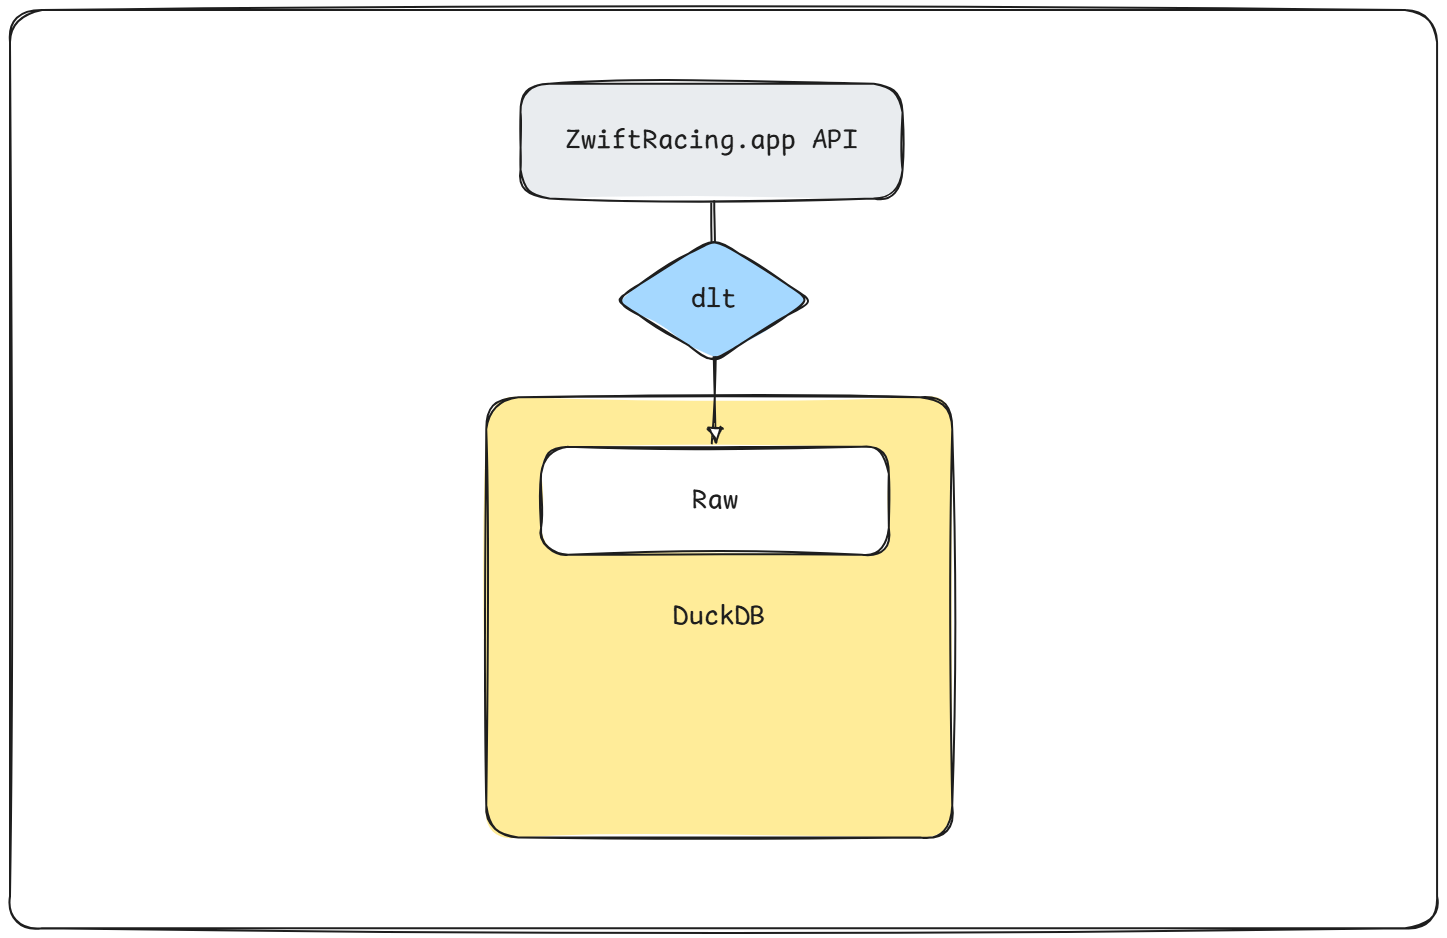
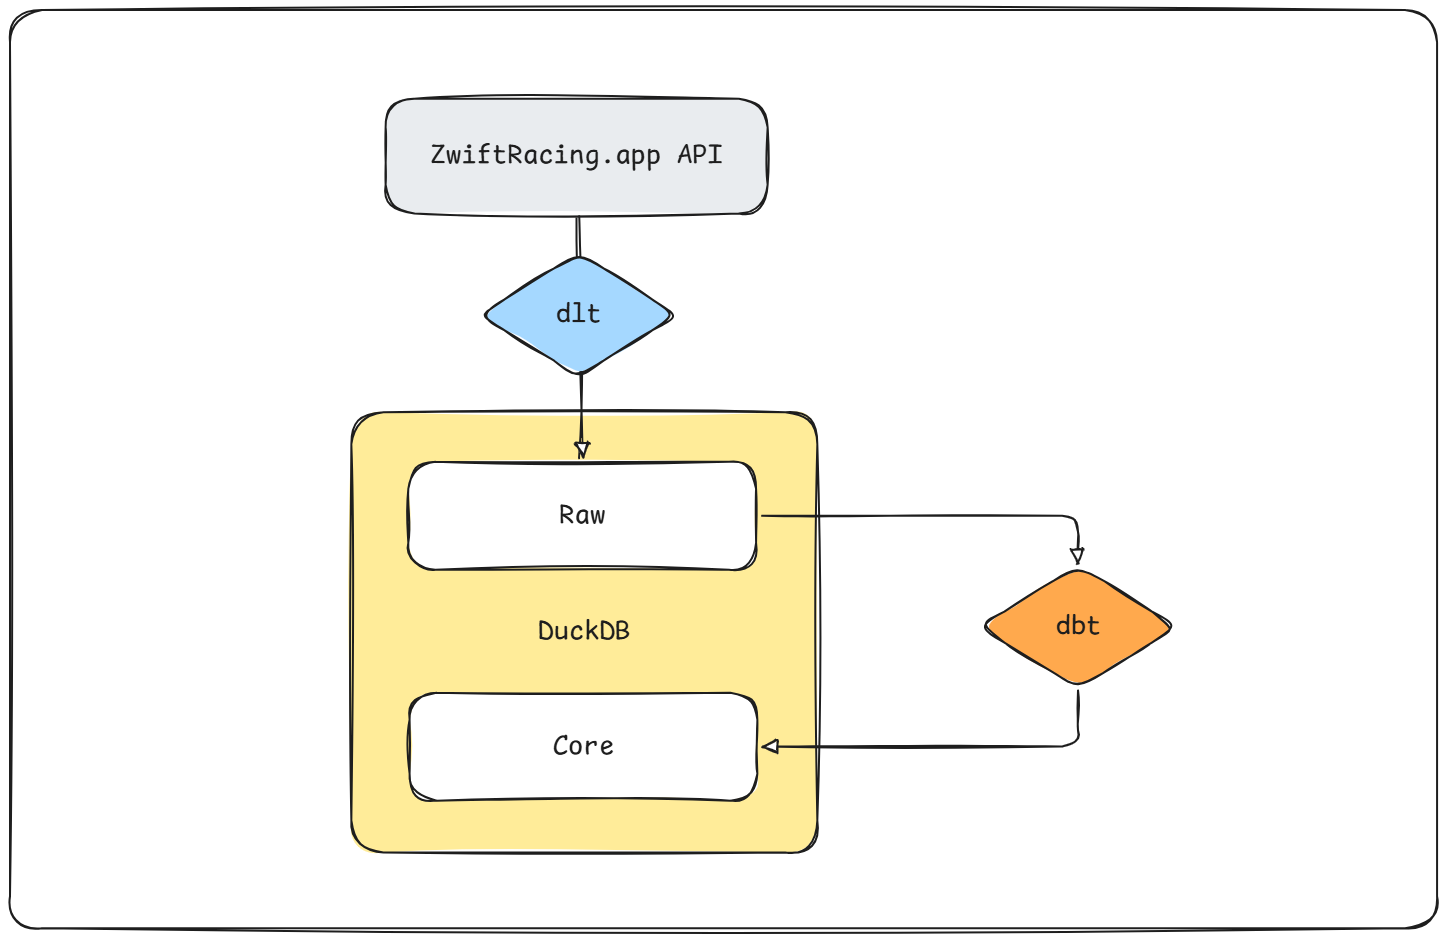
finishing touches

diff --git a/README.md b/README.md
@@ -10,10 +10,10 @@ This platform collects data from the Zwift e-cycling training & racing platform.
 - [GitHub](https://github.com/users/robgriffin247/projects/9) for project management
 - ``uv`` for dependency management
 - ``direnv`` for environment management
-- DuckDB/MotherDuck for data storage/warehousing
+- DuckDB for data storage/warehousing
 - ``dlt`` for ingestion (EL of ELT)
-<!--
 - ``dbt`` for transformation (T of ELT)
+<!--
 - Modal for scheduling in production
 - Dagster for orchestration in development
 -->
